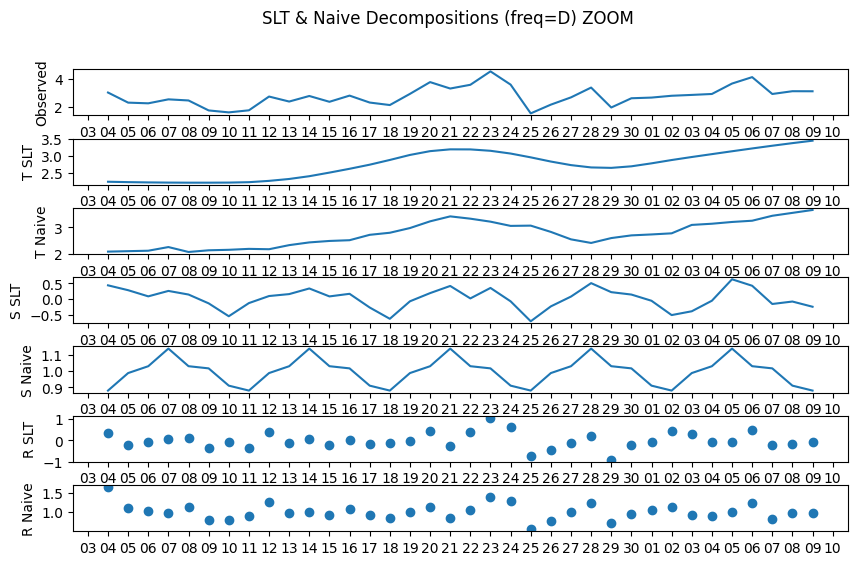
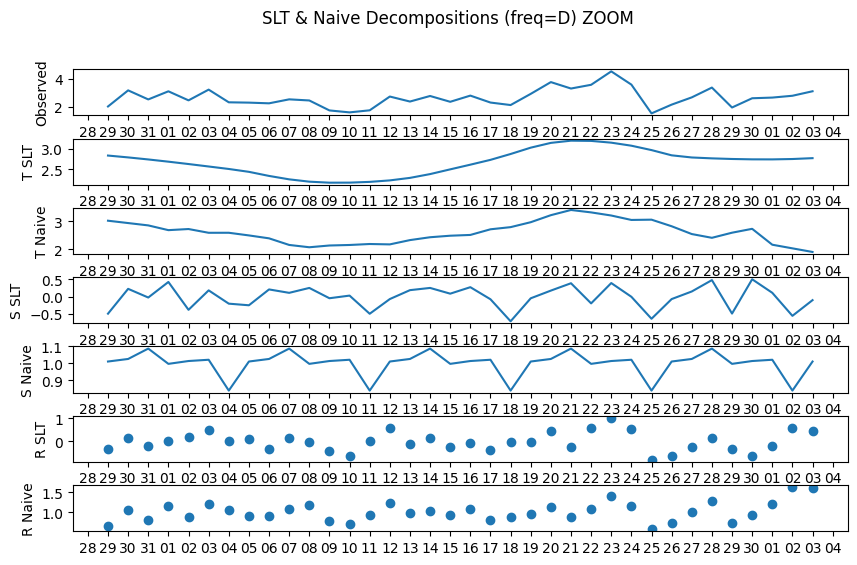
silica concentrate: change seasonality zoom to the begining of the series to notice if it generates a lag in the season pattern

diff --git a/src/visualization/2_silica_concentrate_viz.py b/src/visualization/2_silica_concentrate_viz.py
@@ -165,20 +165,20 @@ decompose_plot(silica[:math.trunc(SIZE*0.008)], freq="5T", comments="1% of data"
 decompose_plot(silica[:math.trunc(SIZE/10)], freq="H", comments="10% of data")
 
 #%% Decomposition in hours: Zoom to get a visual idea of the season period
-decompose_plot(silica[180*24*30:math.trunc(SIZE/4)], freq="H", comments="ZOOM")
+decompose_plot(silica[:math.trunc(SIZE/4)-180*24*30], freq="H", comments="ZOOM")
 
 #%% Decomposition in days full series
 decompose_plot(silica, freq="D", interval=7)
 
 #%% Decomposition in days: Zoom to get a visual idea of the season period
-decompose_plot(silica[180*24*6:math.trunc(SIZE/4)], freq="D", comments="ZOOM")
+decompose_plot(silica[:math.trunc(SIZE/4)-180*24*6], freq="D", comments="ZOOM")
 # Looks like a 7 days season
 
 #%% Decomposition in weeks full series
 decompose_plot(silica, freq="W", interval=7)
 
 #%% Decomposition in weeks: Zoom to get a visual idea of the season period
-decompose_plot(silica[180*24*6:math.trunc(SIZE/4)], freq="W", interval=7, comments="ZOOM")
+decompose_plot(silica[:math.trunc(SIZE/2)-180*24*30], freq="W", interval=2, comments="ZOOM")
 
 #%% Decomposition in months full series
 decompose_plot(silica, freq="M", interval=7)
